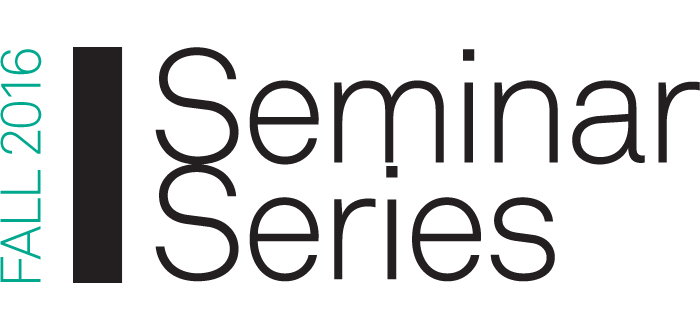
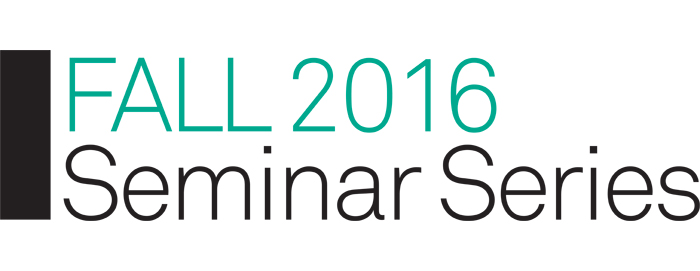
updated image and links. Perrier symp link TK

Changed region(s): [[0.0, 0.1181, 1.0, 0.8856], [0.36, 0.5314, 0.39, 0.5609]]

diff --git a/AP/AP1617/ap_fall2016events/ap_fall2016events.html b/AP/AP1617/ap_fall2016events/ap_fall2016events.html
@@ -2,7 +2,7 @@
 <html xmlns="http://www.w3.org/1999/xhtml">
     <head>
         <meta http-equiv="Content-Type" content="text/html; charset=utf-8">
-        <title>Spring 2016 Seminar Series</title>
+        <title>Fall 2016 Seminar Series</title>
         <style type="text/css">
         body {margin: 0; padding: 0; min-width: 100%!important; color:#333;}
         a {color:#00a88e;}
@@ -62,7 +62,7 @@
                                                                 <strong>Kay Wells</strong><br>
                                                                 Assistant Professor of Art History, University of Wisconsin-Milwaukee; Research Fellow, Bard Graduate Center<br>
                                                                 <div style="border-left:8px solid #000; padding-left:5px; margin-top:7.5px; margin-bottom:7.5px;">
-                                                                    <a href="http://www.bgc.bard.edu/news/events/objects-as-historical-evidence.html">&ldquo;Weaving Modernism: Postwar Tapestry between Paris and New York&rdquo;</a><br>
+                                                                    <a href="http://www.bgc.bard.edu/news/events/weaving-modernism.html">&ldquo;Weaving Modernism: Postwar Tapestry between Paris and New York&rdquo;</a><br>
                                                                 </div>
                                                                 12&ndash;1:30pm<br>
                                                                 <img src="images/bgctv_bars.jpg" style="display:inline; height:9px; width:auto; vertical-align:baseline;">&nbsp;<strong>BGCTV</strong><br><br><br><br>
@@ -71,7 +71,7 @@
                                                                 <strong>Philip Deloria</strong><br>
                                                                 Professor, University of Michigan<br>
                                                                 <div style="border-left:8px solid #000; padding-left:5px; margin-top:7.5px; margin-bottom:7.5px;">
-                                                                    <a href="http://www.bgc.bard.edu/news/events/sun-king-to-moon-king.html">&ldquo;Toward an American Indian Abstract: The Art and Politics of Mary Sully&rdquo;</a><br>
+                                                                    <a href="http://www.bgc.bard.edu/news/events/american-indian-abstract.html">&ldquo;Toward an American Indian Abstract: The Art and Politics of Mary Sully&rdquo;</a><br>
                                                                 </div>
                                                                 6&ndash;7:30pm<br><br><br><br>
 
@@ -79,7 +79,7 @@
                                                                 <strong>Malcolm Baker</strong><br>
                                                                 Professor of Art History, University of California, Riverside; Research Fellow, Bard Graduate Center<br>
                                                                 <div style="border-left:8px solid #000; padding-left:5px; margin-top:7.5px; margin-bottom:7.5px;">
-                                                                    <a href="http://www.bgc.bard.edu/news/events/tradition-of-marble.html">&ldquo;Multiple Authors: Ceramics, Celebrity, and Shaping Notions of Authorship in Eighteenth-Century Britain&rdquo;</a><br>
+                                                                    <a href="http://www.bgc.bard.edu/news/events/multiple-authors.html">&ldquo;Multiple Authors: Ceramics, Celebrity, and Shaping Notions of Authorship in Eighteenth-Century Britain&rdquo;</a><br>
                                                                 </div>
                                                                 12&ndash;1:30pm<br>
                                                                 <img src="images/bgctv_bars.jpg" style="display:inline; height:9px; width:auto; vertical-align:baseline;">&nbsp;<strong>BGCTV</strong><br><br><br><br>
@@ -88,7 +88,7 @@
                                                                 <strong>Beth H. Piatote</strong><br>
                                                                 Associate Professor of Native American Studies, University of California, Berkeley; Visiting Fellow, Bard Graduate Center<br>
                                                                 <div style="border-left:8px solid #000; padding-left:5px; margin-top:7.5px; margin-bottom:7.5px;">
-                                                                    <a href="http://www.bgc.bard.edu/news/events/making-space.html">&ldquo;Legal Landscapes and Contracting Worlds in James Welch&rsquo;s <em>Fools Crow</em>&rdquo;</a><br>
+                                                                    <a href="http://www.bgc.bard.edu/news/events/legal-landscapes.html">&ldquo;Legal Landscapes and Contracting Worlds in James Welch&rsquo;s <em>Fools Crow</em>&rdquo;</a><br>
                                                                 </div>
                                                                 6&ndash;7:30pm<br><br><br><br>
 
@@ -96,7 +96,7 @@
                                                                 <strong>Lisa E. Fischer</strong><br>
                                                                 Director of Digital Initiatives, Jamestown Rediscovery Foundation<br>
                                                                 <div style="border-left:8px solid #000; padding-left:5px; margin-top:7.5px; margin-bottom:7.5px;">
-                                                                    <a href="http://www.bgc.bard.edu/news/events/dictators-evil-decor.html">&ldquo;Jamestown and Beyond: Using Digital Technologies to Visualize and Explore the Past&rdquo;</a><br>
+                                                                    <a href="http://www.bgc.bard.edu/news/events/jamestown-and-beyond.html">&ldquo;Jamestown and Beyond: Using Digital Technologies to Visualize and Explore the Past&rdquo;</a><br>
                                                                 </div>
                                                                 6&ndash;7:30pm<br>
                                                                 <img src="images/bgctv_bars.jpg" style="display:inline; height:9px; width:auto; vertical-align:baseline;">&nbsp;<strong>BGCTV</strong><br><br><br><br>
@@ -105,7 +105,7 @@
                                                                 <strong>Alicia Boswell</strong><br>
                                                                 Andrew W. Mellon Postdoctoral Fellow, Cultures of Conservation, Bard Graduate Center<br>
                                                                 <div style="border-left:8px solid #000; padding-left:5px; margin-top:7.5px; margin-bottom:7.5px;">
-                                                                    <a href="http://www.bgc.bard.edu/news/events/drinking-horns.html">&ldquo;Imperialism and Agency in the Margins: Collambay, the Chim&uacute;, and Inca Empires in Northern Peru&rdquo;</a><br>
+                                                                    <a href="http://www.bgc.bard.edu/news/events/imperialism-and-agency.html">&ldquo;Imperialism and Agency in the Margins: Collambay, the Chim&uacute;, and Inca Empires in Northern Peru&rdquo;</a><br>
                                                                 </div>
                                                                 12&ndash;1:30pm<br>
                                                                 <span style="font-family:Georgia; font-weight:bold;"><em>CofC</em></span><br>
@@ -115,7 +115,7 @@
                                                                 <strong>Pat Kirkham</strong><br>
                                                                 Professor Emerita and Research Fellow, Bard Graduate Center; Professor of Design History, Kingston University, London<br>
                                                                 <div style="border-left:8px solid #000; padding-left:5px; margin-top:7.5px; margin-bottom:7.5px;">
-                                                                    <a href="http://www.bgc.bard.edu/news/events/wolf-king.html">&ldquo;Re-thinking Charles and Ray Eames and Hollywood&rdquo;</a><br>
+                                                                    <a href="http://www.bgc.bard.edu/news/events/rethinking-eames-and-hollywood.html">&ldquo;Re-thinking Charles and Ray Eames and Hollywood&rdquo;</a><br>
                                                                 </div>
                                                                 12&ndash;1:30pm<br>
                                                                 <img src="images/bgctv_bars.jpg" style="display:inline; height:9px; width:auto; vertical-align:baseline;">&nbsp;<strong>BGCTV</strong>
@@ -126,7 +126,7 @@
                                                         <td valign="top" width="150"><br><br>
                                                             OCTOBER 14<br>
                                                             <div style="border-left:8px solid #000; padding-left:5px; margin-top:7.5px; margin-bottom:7.5px;">
-                                                                <a href="http://www.bgc.bard.edu/news/events/conserving-conceptual-art.html">Symposium<br>Art and Ideology in the Twelfth-Century Western Mediterranean</a><br>
+                                                                <a href="http://www.bgc.bard.edu/news/events/art-and-ideology.html">Symposium<br>Art and Ideology in the Twelfth-Century Western Mediterranean</a><br>
                                                             </div>
                                                             9am&ndash;5:30pm<br>
                                                             <img src="images/bgctv_bars.jpg" style="display:inline; height:9px; width:auto; vertical-align:baseline;">&nbsp;<strong>BGCTV</strong><br><br><br><br>
@@ -135,7 +135,7 @@
                                                             <strong>Viola K&ouml;nig</strong><br>
                                                             Director, Ethnological Museum, Berlin<br>
                                                             <div style="border-left:8px solid #000; padding-left:5px; margin-top:7.5px; margin-bottom:7.5px;">
-                                                                <a href="http://www.bgc.bard.edu/news/events/the-art-praxis.html">&ldquo;Real and Metaphoric Spaces: Perspectives and Positions in the Making of the Future Humboldt Forum at Berlin&rdquo;</a><br>
+                                                                <a href="http://www.bgc.bard.edu/news/events/real-and-metaphoric-spaces.html">&ldquo;Real and Metaphoric Spaces: Perspectives and Positions in the Making of the Future Humboldt Forum at Berlin&rdquo;</a><br>
                                                             </div>
                                                             6&ndash;7:30pm<br>
                                                             <img src="images/bgctv_bars.jpg" style="display:inline; height:9px; width:auto; vertical-align:baseline;">&nbsp;<strong>BGCTV</strong><br><br><br><br>
@@ -144,7 +144,7 @@
                                                             <strong>Michele Majer</strong><br>
                                                             Assistant Professor, Bard Graduate Center<br>
                                                             <div style="border-left:8px solid #000; padding-left:5px; margin-top:7.5px; margin-bottom:7.5px;">
-                                                                <a href="http://www.bgc.bard.edu/news/events/paper-is-part.html">&ldquo;Fashion and Art at the H&ocirc;tel des Modes&rdquo;</a><br>
+                                                                <a href="http://www.bgc.bard.edu/news/events/hotel-des-modes.html">&ldquo;Fashion and Art at the H&ocirc;tel des Modes&rdquo;</a><br>
                                                             </div>
                                                             12&ndash;1:30pm<br><br><br><br>
 
@@ -152,7 +152,7 @@
                                                             <strong>Elyse Mallouk</strong><br>
                                                             Senior Digital Content Manager, Whitney Museum of American Art<br>
                                                             <div style="border-left:8px solid #000; padding-left:5px; margin-top:7.5px; margin-bottom:7.5px;">
-                                                                <a href="http://www.bgc.bard.edu/news/events/museums-role.html">&ldquo;Whitney Stories: Representing the Museum through Digital Storytelling&rdquo;</a><br>
+                                                                <a href="http://www.bgc.bard.edu/news/events/whitney-stories.html">&ldquo;Whitney Stories: Representing the Museum through Digital Storytelling&rdquo;</a><br>
                                                             </div>
                                                             12&ndash;1:30pm<br>
                                                             <img src="images/bgctv_bars.jpg" style="display:inline; height:9px; width:auto; vertical-align:baseline;">&nbsp;<strong>BGCTV</strong><br><br><br><br>
@@ -161,14 +161,14 @@
                                                             <strong>Maggie Jackson</strong><br>
                                                             Independent Scholar; Visiting Fellow, Bard Graduate Center<br>
                                                             <div style="border-left:8px solid #000; padding-left:5px; margin-top:7.5px; margin-bottom:7.5px;">
-                                                                <a href="http://www.bgc.bard.edu/news/events/berlinger-conservation.html">&ldquo;Mind in the Making: Reflection and the Artisanal in the Material World&rdquo;</a><br>
+                                                                <a href="http://www.bgc.bard.edu/news/events/mind-in-the-making.html">&ldquo;Mind in the Making: Reflection and the Artisanal in the Material World&rdquo;</a><br>
                                                             </div>
                                                             12&ndash;1:30pm<br>
                                                             <img src="images/bgctv_bars.jpg" style="display:inline; height:9px; width:auto; vertical-align:baseline;">&nbsp;<strong>BGCTV</strong><br><br><br><br>
 
                                                             NOVEMBER 1<br>
                                                             <div style="border-left:8px solid #000; padding-left:5px; margin-top:7.5px; margin-bottom:7.5px;">
-                                                                <a href="http://www.bgc.bard.edu/news/events/christian-larsen.html">Cultures of Conservation &ldquo;Keyword&rdquo; Panel: Digging into Central Park&rsquo;s Layered Past</a><br>
+                                                                <a href="http://www.bgc.bard.edu/news/events/coc-central-park.html">Cultures of Conservation &ldquo;Keyword&rdquo; Panel: Digging into Central Park&rsquo;s Layered Past</a><br>
                                                             </div>
                                                             6&ndash;7:30pm<br>
                                                             <span style="font-family:Georgia; font-weight:bold;"><em>CofC</em></span><br>
@@ -178,7 +178,7 @@
                                                             <strong>Jessica Walthew</strong><br>
                                                             Andrew W. Mellon Fellow, Cultures of Conservation, Bard Graduate Center<br>
                                                             <div style="border-left:8px solid #000; padding-left:5px; margin-top:7.5px; margin-bottom:7.5px;">
-                                                                <a href="http://www.bgc.bard.edu/news/events/climate-commodities.html">&ldquo;Issues of Conservation and Display in the American Museum of Natural History&rsquo;s Hall of Northwest Coast Indians&rdquo;</a><br>
+                                                                <a href="http://www.bgc.bard.edu/news/events/conservation-and-display.html">&ldquo;Issues of Conservation and Display in the American Museum of Natural History&rsquo;s Hall of Northwest Coast Indians&rdquo;</a><br>
                                                             </div>
                                                             12&ndash;1:30pm<br>
                                                             <span style="font-family:Georgia; font-weight:bold;"><em>CofC</em></span><br>
@@ -188,7 +188,7 @@
                                                             <strong>Salvatore Settis</strong><br>
                                                             Professor, Accademia dei Lincei, Rome<br>
                                                             <div style="border-left:8px solid #000; padding-left:5px; margin-top:7.5px; margin-bottom:7.5px;">
-                                                                <a href="http://www.bgc.bard.edu/news/events/meaning-of-glass.html">&ldquo;The Protection of Cultural Heritage in Italy: A Short History and Some Current Issues&rdquo;</a><br>
+                                                                <a href="http://www.bgc.bard.edu/news/events/cultural-heritage-in-italy.html">&ldquo;The Protection of Cultural Heritage in Italy: A Short History and Some Current Issues&rdquo;</a><br>
                                                             </div>
                                                             6&ndash;7:30pm<br>
                                                             <img src="images/bgctv_bars.jpg" style="display:inline; height:9px; width:auto; vertical-align:baseline;">&nbsp;<strong>BGCTV</strong>
@@ -220,7 +220,7 @@
                                                             <strong>Ulrich Leben</strong><br>
                                                             Associate Curator, Waddesdon Manor; Research Scholar and Visiting Professor, Bard Graduate Center<br>
                                                             <div style="border-left:8px solid #000; padding-left:5px; margin-top:7.5px; margin-bottom:7.5px;">
-                                                                <a href="http://www.bgc.bard.edu/news/events/collecting-1.html">&ldquo;Redefining Color at H&ocirc;tel Beauharnais: The Restoration of the Furniture and Fabrics in a Private Mansion from the Empire Period in Paris&rdquo;</a><br>
+                                                                <a href="http://www.bgc.bard.edu/news/events/color-at-hotel-beauharnais.html">&ldquo;Redefining Color at H&ocirc;tel Beauharnais: The Restoration of the Furniture and Fabrics in a Private Mansion from the Empire Period in Paris&rdquo;</a><br>
                                                             </div>
                                                             12&ndash;1:30pm<br><br><br><br>
 
@@ -228,7 +228,7 @@
                                                             <strong>Urmila Mohan</strong><br>
                                                             Bard Graduate Center/AMNH Postdoctoral Fellow in Museum Anthropology<br>
                                                             <div style="border-left:8px solid #000; padding-left:5px; margin-top:7.5px; margin-bottom:7.5px;">
-                                                                <a href="http://www.bgc.bard.edu/news/events/temple-to-theatre.html">&ldquo;Out of Whole Cloth: Exploring Balinese Textiles in the Mead-Bateson Collection&rdquo;</a><br>
+                                                                <a href="http://www.bgc.bard.edu/news/events/out-of-whole-cloth.html">&ldquo;Out of Whole Cloth: Exploring Balinese Textiles in the Mead-Bateson Collection&rdquo;</a><br>
                                                             </div>
                                                             12&ndash;1:30pm<br><br><br><br>
 
@@ -236,7 +236,7 @@
                                                             <strong>Ulrich Leben</strong><br>
                                                             Associate Curator, Waddesdon Manor; Research Scholar and Visiting Professor, Bard Graduate Center<br>
                                                             <div style="border-left:8px solid #000; padding-left:5px; margin-top:7.5px; margin-bottom:7.5px;">
-                                                                <a href="http://www.bgc.bard.edu/news/events/temple-to-theatre.html">&ldquo;A Parisian Residence of the Early Empire: The H&ocirc;tel Beauharnai&mdash;A Singular Manifestation of Early Empire Style in Paris&rdquo;</a><br>
+                                                                <a href="http://www.bgc.bard.edu/news/events/parisian-residence.html">&ldquo;A Parisian Residence of the Early Empire: The H&ocirc;tel Beauharnai&mdash;A Singular Manifestation of Early Empire Style in Paris&rdquo;</a><br>
                                                             </div>
                                                             12&ndash;1:30pm<br>
                                                             <img src="images/bgctv_bars.jpg" style="display:inline; height:9px; width:auto; vertical-align:baseline;">&nbsp;<strong>BGCTV</strong><br><br><br><br>
@@ -245,7 +245,7 @@
                                                             <strong>Paula Hohti</strong><br>
                                                             Assistant Professor of the History of Art and Culture, Aalto University, Helsinki; Visiting Fellow, Bard Graduate Center<br>
                                                             <div style="border-left:8px solid #000; padding-left:5px; margin-top:7.5px; margin-bottom:7.5px;">
-                                                                <a href="http://www.bgc.bard.edu/news/events/rhubarb.html">&ldquo;Living Like a Gentleman? The Material World of Renaissance Artisans and Shopkeepers&rdquo;</a><br>
+                                                                <a href="http://www.bgc.bard.edu/news/events/living-like-a-gentleman.html">&ldquo;Living Like a Gentleman? The Material World of Renaissance Artisans and Shopkeepers&rdquo;</a><br>
                                                             </div>
                                                             12&ndash;1:30pm<br>
                                                             <img src="images/bgctv_bars.jpg" style="display:inline; height:9px; width:auto; vertical-align:baseline;">&nbsp;<strong>BGCTV</strong><br><br><br><br>
@@ -254,18 +254,18 @@
                                                             <strong>Andrew Morrall</strong><br>
                                                             Professor, Bard Graduate Center<br>
                                                             <div style="border-left:8px solid #000; padding-left:5px; margin-top:7.5px; margin-bottom:7.5px;">
-                                                                <a href="http://www.bgc.bard.edu/news/events/global-things.html">&ldquo;The Cosmos of the Urban Craftsman in Early Modern Northern Europe&rdquo;</a><br>
+                                                                <a href="http://www.bgc.bard.edu/news/events/cosmos-of-the-urban-craftsman.html">&ldquo;The Cosmos of the Urban Craftsman in Early Modern Northern Europe&rdquo;</a><br>
                                                             </div>
                                                             12&ndash;1:30pm<br><br><br><br>
 
                                                             NOVEMBER 15<br>
-                                                        <strong>Marc Fumaroli</strong><br>
-                                                        Academie Fran&ccedil;aise, College de France<br>
-                                                        <div style="border-left:8px solid #000; padding-left:5px; margin-top:7.5px; margin-bottom:7.5px;">
-                                                            <a href="http://www.bgc.bard.edu/news/events/dangerous-relic.html">&ldquo;Antiquarianism in France: From the Learned Seat of the Monarchy to the Dramatic Engine of Democratic Revolution&rdquo;</a><br>
-                                                        </div>
-                                                        6&ndash;7:30pm<br>
-                                                        <img src="images/bgctv_bars.jpg" style="display:inline; height:9px; width:auto; vertical-align:baseline;">&nbsp;<strong>BGCTV</strong><br><br><br><br><br><br>
+                                                            <strong>Marc Fumaroli</strong><br>
+                                                            Academie Fran&ccedil;aise, College de France<br>
+                                                            <div style="border-left:8px solid #000; padding-left:5px; margin-top:7.5px; margin-bottom:7.5px;">
+                                                                <a href="http://www.bgc.bard.edu/news/events/antiquarianism-in-france.html">&ldquo;Antiquarianism in France: From the Learned Seat of the Monarchy to the Dramatic Engine of Democratic Revolution&rdquo;</a><br>
+                                                            </div>
+                                                            6&ndash;7:30pm<br>
+                                                            <img src="images/bgctv_bars.jpg" style="display:inline; height:9px; width:auto; vertical-align:baseline;">&nbsp;<strong>BGCTV</strong><br><br><br><br><br><br>
 
                                                             
                                                                                                                         
@@ -276,7 +276,7 @@
 
                                                         NOVEMBER 18<br>
                                                         <div style="border-left:8px solid #000; padding-left:5px; margin-top:7.5px; margin-bottom:7.5px;">
-                                                            <a href="http://www.bgc.bard.edu/news/events/the-sheaves.html">Symposium<br>Percier: Antiquity and Empire</a><br>
+                                                            <a href="#">Symposium<br>Percier: Antiquity and Empire [LINK TK]</a><br>
                                                         </div>
                                                         1&ndash;5pm<br>
                                                         <img src="images/bgctv_bars.jpg" style="display:inline; height:9px; width:auto; vertical-align:baseline;">&nbsp;<strong>BGCTV</strong><br><br><br><br>
@@ -294,7 +294,7 @@
                                                         <strong>Jesse Merandy</strong><br>
                                                         Director of the Digital Media Lab, Bard Graduate Center<br>
                                                         <div style="border-left:8px solid #000; padding-left:5px; margin-top:7.5px; margin-bottom:7.5px;">
-                                                            <a href="http://www.bgc.bard.edu/news/events/entangled-frontiers.html">&ldquo;Walking with Whitman: Mobile Learning in Brooklyn Heights&rdquo;</a><br>
+                                                            <a href="http://www.bgc.bard.edu/news/events/walking-with-whitman.html">&ldquo;Walking with Whitman: Mobile Learning in Brooklyn Heights&rdquo;</a><br>
                                                         </div>
                                                         12&ndash;1:30pm<br>
                                                         <img src="images/bgctv_bars.jpg" style="display:inline; height:9px; width:auto; vertical-align:baseline;">&nbsp;<strong>BGCTV</strong><br><br><br><br>
@@ -303,7 +303,7 @@
                                                         <strong>Christina Anderson</strong><br>
                                                         Research Fellow in the Study of Collecting, Ashmolean Museum, University of Oxford; Research Fellow, Bard Graduate Center<br>
                                                         <div style="border-left:8px solid #000; padding-left:5px; margin-top:7.5px; margin-bottom:7.5px;">
-                                                            <a href="http://www.bgc.bard.edu/news/events/modern-mind.html">&ldquo;Diamonds, Sugar, and Art: Flemish Merchants in the Early Modern World&rdquo;</a><br>
+                                                            <a href="http://www.bgc.bard.edu/news/events/diamonds-sugar-art.html">&ldquo;Diamonds, Sugar, and Art: Flemish Merchants in the Early Modern World&rdquo;</a><br>
                                                         </div>
                                                         12&ndash;1:30pm<br><br><br><br>
 
@@ -311,7 +311,7 @@
                                                         <strong>Pat Kirkham</strong><br>
                                                         Professor Emerita and Research Fellow, Bard Graduate Center; Professor of Design History, Kingston University, London<br>
                                                         <div style="border-left:8px solid #000; padding-left:5px; margin-top:7.5px; margin-bottom:7.5px;">
-                                                            <a href="http://www.bgc.bard.edu/news/events/pioneers-of-modern-design.html">&ldquo;Charles and Ray Eames: The Hollywood Connections&rdquo;</a><br>
+                                                            <a href="http://www.bgc.bard.edu/news/events/eames-hollywood-connection.html">&ldquo;Charles and Ray Eames: The Hollywood Connections&rdquo;</a><br>
                                                         </div>
                                                         6&ndash;7:30pm<br>
                                                         <img src="images/bgctv_bars.jpg" style="display:inline; height:9px; width:auto; vertical-align:baseline;">&nbsp;<strong>BGCTV</strong><br><br><br><br>
@@ -320,7 +320,7 @@
                                                         <strong>Jack Tchen</strong><br>
                                                         Associate Professor, New York University<br>
                                                         <div style="border-left:8px solid #000; padding-left:5px; margin-top:7.5px; margin-bottom:7.5px;">
-                                                            <a href="http://www.bgc.bard.edu/news/events/wine-women-venice.html">&ldquo;Foreign Phobia &amp; the American Republic—Spinning Loss and Fear in Campaign Election Cycles&rdquo;</a><br>
+                                                            <a href="http://www.bgc.bard.edu/news/events/foreign-phobia.html">&ldquo;Foreign Phobia &amp; the American Republic—Spinning Loss and Fear in Campaign Election Cycles&rdquo;</a><br>
                                                         </div>
                                                         6&ndash;7:30pm<br><br><br><br>
 
